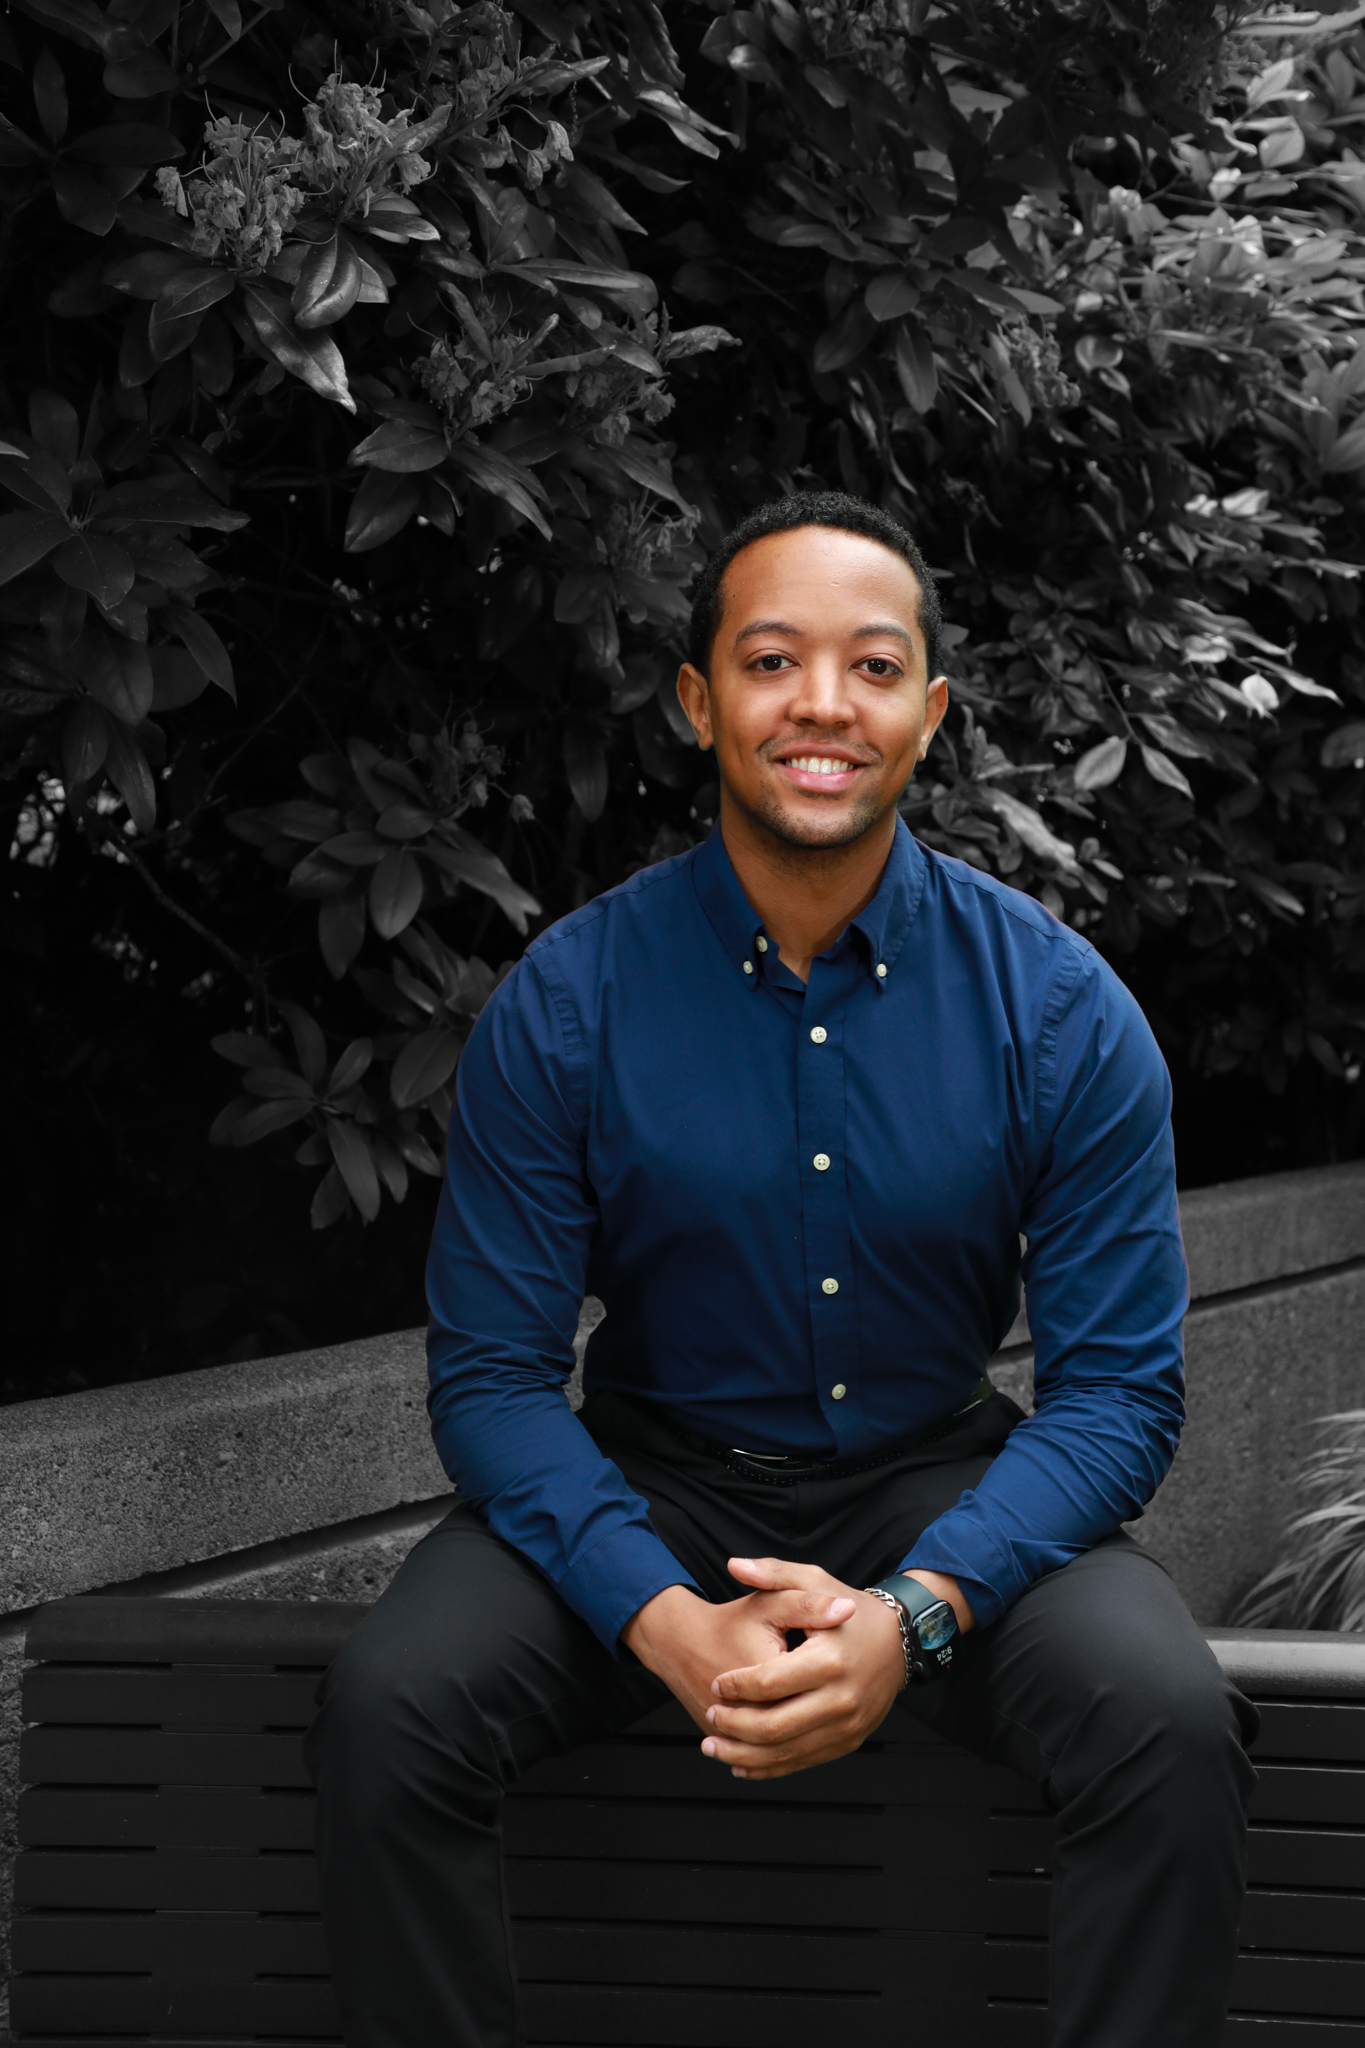
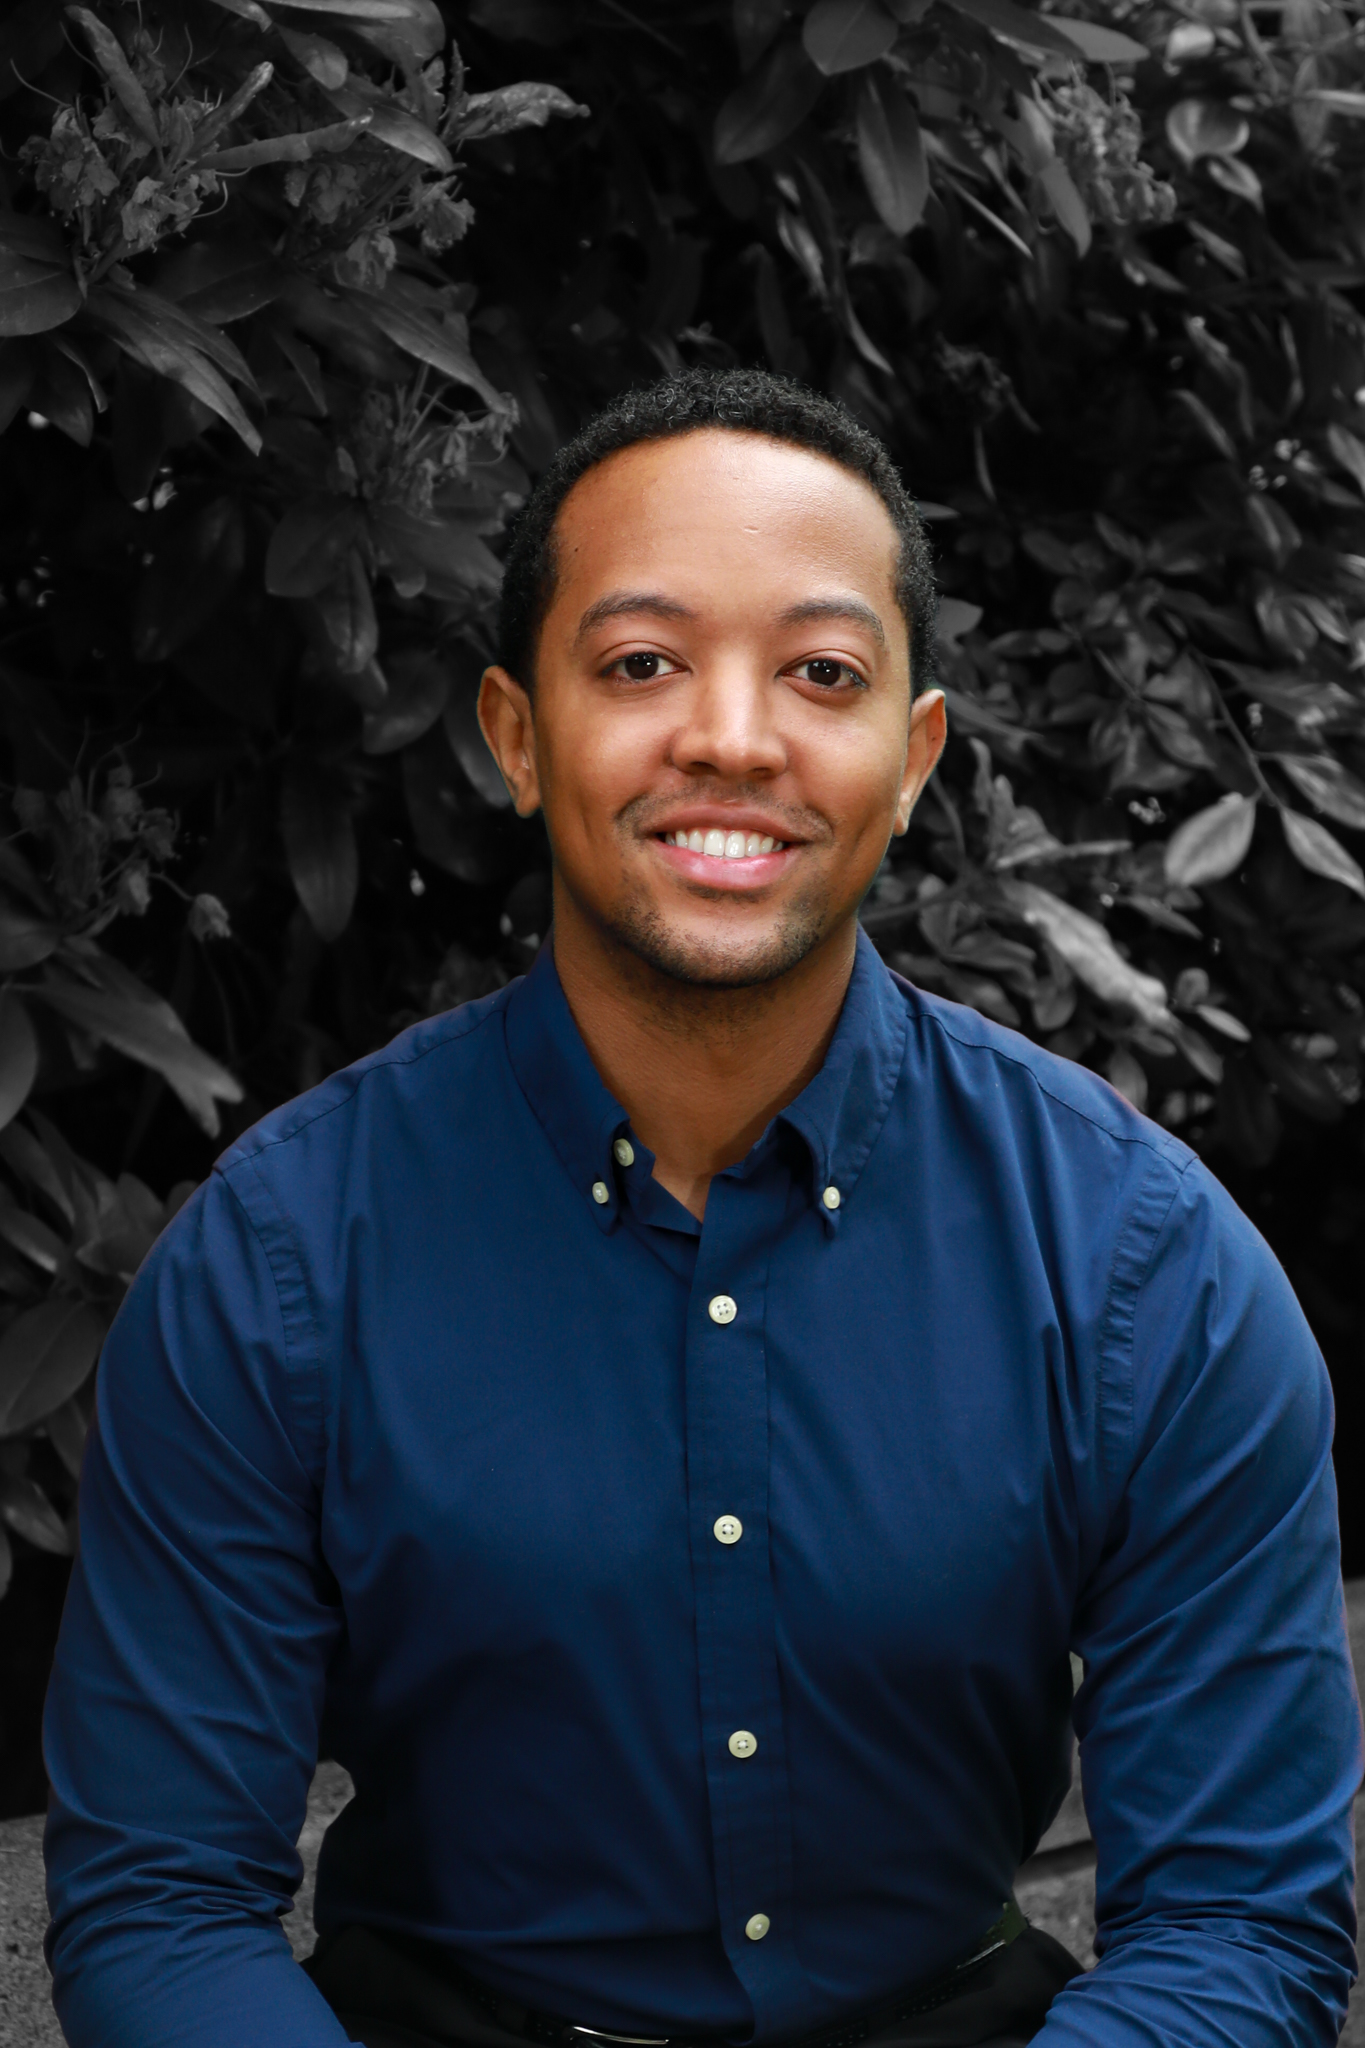
finished main portfolio

diff --git a/src/components/Home.jsx b/src/components/Home.jsx
@@ -1,43 +1,47 @@
 import React from "react";
-import Image from "../assets/profileimg-1.jpg";
-import { MdArrowRightAlt, MdOutlineKeyboardArrowRight } from "react-icons/md";
+import Image from "../assets/profileimg.jpg";
+import { MdOutlineKeyboardArrowRight } from "react-icons/md";
 import { Link } from "react-scroll";
+import bgImage from "../assets/portfolio/bgimage.jpg";
 
 const Home = () => {
   return (
-    <div
-      name="home"
-      className="h-screen w-full bg-gradient-to-b from-black via-black to-gray-800 text-white"
-    >
-      <div className="max-w-screen-lg mx-auto flex flex-col items-center justify-center h-full px-4 md:flex-row">
-        <div className="flex flex-col justify-center h-full">
-          <h2 className="text-4xl sm:text-7xl font-bold text-white">I'm a Full Stack Developer</h2>
-          <p className="text-gray-500 py-4 max-w-md">
-            Lorem ipsum dolor sit amet, consectetur adipisicing elit. Repellat,
-            odio, dolor perspiciatis veritatis quibusdam maiores recusandae
-            libero iste quas voluptates expedita commodi, atque molestias nihil
-            vitae voluptatem voluptas! Tempore, quas?
-          </p>
+    <div className="h-screen w-full bg-gradient-to-b from-black via-black to-gray-800 text-white">
+        <div className="max-w-screen-lg mx-auto flex flex-col items-center justify-center h-full px-4 md:flex-row">
+          <div className="flex flex-col justify-center h-full">
+            <h2 className="text-4xl sm:text-7xl font-bold text-white">
+              I'm a Full Stack Developer
+            </h2>
+            <p className="text-gray-500 py-4 max-w-md">
+              Hello, my name is Jason Golliet. I'm a full-stack software
+              developer located in the Greater Seattle Area. I am passionate
+              about future technologies, especially with AI and language
+              learning.
+            </p>
 
-          <div>
-            <Link 
-              to="portfolio"
-              smooth
-              duration={500}
-              className="text-white w-fit px-6 py-3 my-2 flex items-center rounded-md bg-gradient-to-r from-cyan-400 to-blue-500 cursor-pointer"
-            >
-              Portfolio
-              <span className="hover:rotate-90 duration-300">
-                <MdOutlineKeyboardArrowRight size={25} className="ml-1" />
-              </span>
-            </Link>
+            <div>
+              <Link
+                to="portfolio"
+                smooth
+                duration={500}
+                className="text-white w-fit px-6 py-3 my-2 flex items-center rounded-md bg-gradient-to-r from-cyan-400 to-blue-500 cursor-pointer"
+              >
+                Portfolio
+                <span className="hover:rotate-90 duration-300">
+                  <MdOutlineKeyboardArrowRight size={25} className="ml-1" />
+                </span>
+              </Link>
+            </div>
+          </div>
+          <div className="w-1/2">
+            <img
+              src={Image}
+              alt="my profile image"
+              className="rounded-2xl mx-auto h-min w- md:w-auto"
+            />
           </div>
         </div>
-        <div className=" w-1/2">
-          <img src={Image} alt="my profile image" className="rounded-2xl mx-auto h-min w- md:w-auto" />
-        </div>
       </div>
-    </div>
   );
 };
 

diff --git a/src/components/About.jsx b/src/components/About.jsx
@@ -14,23 +14,26 @@ const About = () => {
         </div>
 
         <p className="text-xl mt-20">
-          Lorem ipsum dolor, sit amet consectetur adipisicing elit. Eius,
-          deserunt illum mollitia officiis qui exercitationem perferendis neque
-          quasi a recusandae necessitatibus tempora iusto! Blanditiis error
-          iste, totam fugiat recusandae rerum laborum perferendis molestiae
-          aperiam asperiores nemo. Magni dolor maxime debitis vitae, eaque hic
-          ab mollitia voluptatibus, a nostrum eveniet laborum!
+          Hello and welcome! My name is Jason Golliet, and I am a full-stack
+          software engineer based in the Greater Seattle Area. With a deep
+          passion for technology, especially future tech and AI, I am always
+          eager to challenge myself and broaden my skills. My interest in
+          language learning also keeps me motivated to continuously refine my
+          communication abilities, particularly in technical contexts.
         </p>
 
         <br />
 
         <p className="text-xl">
-          Lorem, ipsum dolor sit amet consectetur adipisicing elit. Laborum
-          pariatur, vel similique sint, nobis aspernatur ut praesentium
-          explicabo ipsam aliquid quasi laboriosam et culpa possimus repudiandae
-          quisquam ullam maiores ab unde. Fugiat odio mollitia nemo alias.
-          Commodi facilis atque nulla vero voluptatem explicabo. Quibusdam,
-          magni quo! Eum cupiditate debitis labore.
+          My portfolio includes a variety of projects, all of which reflect my
+          dedication, problem-solving skills, and commitment to producing
+          high-quality work. I welcome you to browse through these works to get
+          a sense of my abilities and style. When I'm not immersed in code, I
+          enjoy traveling and exploring new cultures. These experiences have
+          not only enriched me personally, but also have added to my flexibility
+          and adaptability in diverse team environments. Feel free to contact me
+          if you would like to collaborate or learn more about my work. Thank
+          you for stopping by!
         </p>
       </div>
     </div>
